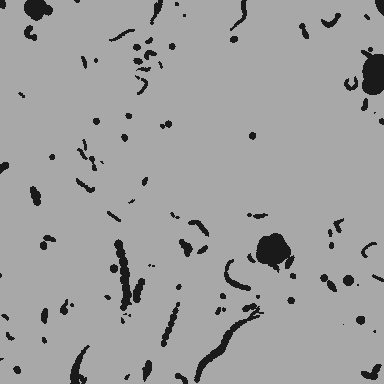
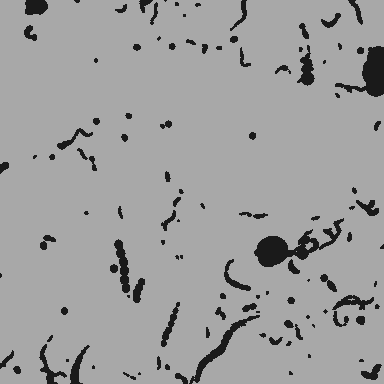
Caves: natural cavern floors, 1.6.4 forks and frequency
- Large caverns: no more flat cut-off floors. Floor and ceiling follow
  smooth two-scale noise, so floors roll into mounds and hollows; exits
  increased and allowed to fork.
- Spaghetti: every tunnel wider than 1 forks into two thinner tunnels, as
  in Release 1.6.4, and systems run at 1.6.4's frequency (6.7 per 100
  chunks). Zig-zag and ribbed trimmed to 5 per 100 chunks.
- Settings version 3 resets older cave type settings once.
- Density 5.14% of the underground (1.6.4-style on the same land 4.55%).
  Docs, README and checklist updated.

diff --git a/src/main/java/com/eternalreturn/worldgen/caves/types/LargeCave.java b/src/main/java/com/eternalreturn/worldgen/caves/types/LargeCave.java
@@ -6,11 +6,13 @@ import com.eternalreturn.worldgen.caves.CaveType;
 import com.eternalreturn.worldgen.caves.Tunnel;
 import net.minecraft.util.math.MathHelper;
 import net.minecraft.util.math.Vec3d;
+import net.minecraft.util.math.noise.SimplexNoiseSampler;
 import net.minecraft.util.math.random.Random;
 
 /**
- * Big irregular caverns: a flattened, stretched main chamber with lobes of different sizes and heights
- * around it (uneven walls, alcoves, a lumpy ceiling), a mostly flat floor, and tunnels leading out.
+ * Big irregular caverns: a stretched main chamber with lobes of different sizes and heights around it
+ * (uneven walls, alcoves), and tunnels leading out. Floor and ceiling follow smooth noise: the floor
+ * rises into mounds and sinks into hollows, the ceiling bulges a little, so nothing is flat.
  * The radius (of the main chamber) follows a bell curve with a long tail: typicalRadius times
  * e^(0.35 x a normal random), kept between minRadius and maxRadius. With the defaults (typical 25, 12 to
  * 80) about two in three caverns are 18 to 35 blocks in radius, about one in 45 passes 50 and one in
@@ -20,6 +22,10 @@ import net.minecraft.util.math.random.Random;
 public final class LargeCave implements CaveType {
 	/** Spread of the bell curve (log scale): 0.35 puts two caverns in three within about a third of the typical radius. */
 	private static final double SPREAD = 0.35;
+	/** How far the floor's depth swings with the noise: the bottom sits between 0.6 and 1.44 of the vertical radius below centre. */
+	private static final double FLOOR_SWING = 0.42;
+	/** Each piece's box reaches this much further than its vertical radius, to fit the deepest hollows. */
+	private static final double FLOOR_ROOM = 1.5;
 
 	@Override
 	public String id() {
@@ -49,8 +55,9 @@ public final class LargeCave implements CaveType {
 		double vertical = Math.min(radius * (0.45 + random.nextDouble() * 0.2), 8.0 + radius * 0.3);
 		double stretchX = 0.75 + random.nextDouble() * 0.5;
 		double stretchZ = 0.75 + random.nextDouble() * 0.5;
-		double centreY = builder.clampY(y, vertical);
-		builder.ellipsoid(x, centreY, z, radius * stretchX, vertical, radius * stretchZ, -0.55, true);
+		double centreY = builder.clampY(y, vertical * FLOOR_ROOM);
+		SimplexNoiseSampler noise = new SimplexNoiseSampler(random);
+		chamber(builder, noise, x, centreY, z, radius * stretchX, vertical, radius * stretchZ);
 
 		int lobes = 5 + random.nextInt(6) + (int) (radius / 10);
 		for (int i = 0; i < lobes; i++) {
@@ -69,19 +76,36 @@ public final class LargeCave implements CaveType {
 				lobeX = x + MathHelper.cos(angle) * distance * stretchX;
 				lobeZ = z + MathHelper.sin(angle) * distance * stretchZ;
 			}
-			double lobeY = builder.clampY(centreY + lobeYOffset, lobeVertical);
-			builder.ellipsoid(lobeX, lobeY, lobeZ, lobeRadius, lobeVertical, lobeRadius * lobeStretch, -0.5, true);
+			double lobeY = builder.clampY(centreY + lobeYOffset, lobeVertical * FLOOR_ROOM);
+			chamber(builder, noise, lobeX, lobeY, lobeZ, lobeRadius, lobeVertical, lobeRadius * lobeStretch);
 		}
 
-		int exits = 2 + random.nextInt(4) + (int) (radius / 25);
+		int exits = 3 + random.nextInt(4) + (int) (radius / 20);
 		for (int i = 0; i < exits; i++) {
 			float angle = random.nextFloat() * CaveBuilder.TAU;
 			double exitX = x + MathHelper.cos(angle) * radius * stretchX * 0.8;
 			double exitZ = z + MathHelper.sin(angle) * radius * stretchZ * 0.8;
 			double exitY = centreY - vertical * 0.3 + random.nextDouble() * vertical * 0.5;
 			Tunnel tunnel = new Tunnel(exitX, exitY, exitZ, angle + (random.nextFloat() - 0.5F) * 0.6F, (random.nextFloat() - 0.5F) * 0.4F);
-			SpaghettiCave.tunnel(builder, random, tunnel, 1.5, 0.5 + random.nextDouble() * 1.5, 40 + random.nextInt(50), false);
+			SpaghettiCave.tunnel(builder, random, tunnel, 1.5, 0.5 + random.nextDouble() * 1.5, 40 + random.nextInt(50), true);
 		}
 		return new Vec3d(x, centreY, z);
+	}
+
+	/**
+	 * One piece of the cavern: an ellipsoid whose lower half is squashed or stretched by smooth noise
+	 * (two scales, about 24 and 12 blocks across), so the floor undulates, and whose upper half bulges a
+	 * little. The same noise runs through every piece of a cavern, so neighbouring lobes join smoothly.
+	 */
+	private static void chamber(CaveBuilder builder, SimplexNoiseSampler noise, double x, double y, double z, double rx, double ry, double rz) {
+		builder.shape(x, y, z, rx, ry * FLOOR_ROOM, rz, true, true, (dx, dy, dz, blockY) -> {
+			double worldX = x + dx * rx;
+			double worldZ = z + dz * rz;
+			double n = 0.78 * noise.sample(worldX / 24.0, worldZ / 24.0) + 0.22 * noise.sample(worldX / 12.0 + 31.7, worldZ / 12.0 - 12.3);
+			// dy is scaled by the box (ry * FLOOR_ROOM); back to units of ry, then stretched by the noise.
+			double vertical = dy * FLOOR_ROOM;
+			vertical /= vertical < 0 ? 1.02 - FLOOR_SWING * n : 1.0 + 0.15 * n;
+			return dx * dx + vertical * vertical + dz * dz < 1.0;
+		});
 	}
 }

diff --git a/src/main/java/com/eternalreturn/worldgen/caves/types/SpaghettiCave.java b/src/main/java/com/eternalreturn/worldgen/caves/types/SpaghettiCave.java
@@ -19,10 +19,11 @@ import net.minecraft.util.math.random.Xoroshiro128PlusPlusRandom;
  * <li>a tunnel runs 85 to 112 blocks, swelling from minRadius at its ends to minRadius + width in the
  * middle; width is 0 to (maxRadius - minRadius), weighted toward the middle, and one tunnel in ten is
  * widened up to four times;</li>
- * <li>flat floors, a quarter of the steps skipped (rough walls), one tunnel in six keeping its slope.</li>
+ * <li>flat floors, a quarter of the steps skipped (rough walls), one tunnel in six keeping its slope;</li>
+ * <li>every tunnel wider than 1 (most of them) splits, somewhere in its middle half, into two thinner
+ * tunnels heading off left and right, and ends there: the forks that make 1.6.4's caves a maze.</li>
  * </ul>
- * One change: 1.6.4 split most tunnels into two thinner ones halfway; here one tunnel in five sends
- * off a thinner side branch and carries on. Weight counts cave systems (1.6.4 had about 6.7 per 100 chunks).
+ * Weight counts cave systems (1.6.4 had about 6.7 per 100 chunks).
  */
 public final class SpaghettiCave implements CaveType {
 	@Override
@@ -32,7 +33,7 @@ public final class SpaghettiCave implements CaveType {
 
 	@Override
 	public CaveTypeSettings defaults() {
-		return new CaveTypeSettings(5.0, -58, 85, 1.5, 4.5);
+		return new CaveTypeSettings(6.7, -58, 85, 1.5, 4.5);
 	}
 
 	@Override
@@ -97,7 +98,8 @@ public final class SpaghettiCave implements CaveType {
 	public static void tunnel(CaveBuilder builder, Random random, Tunnel tunnel, double endRadius, double width, int length, boolean mayBranch) {
 		boolean steep = random.nextInt(6) == 0;
 		int branchAt = random.nextInt(Math.max(1, length / 2)) + length / 4;
-		boolean branches = mayBranch && width > 1.0 && random.nextInt(5) == 0;
+		// Release 1.6.4: every tunnel wider than 1 forks.
+		boolean branches = mayBranch && width > 1.0;
 		long branchSeed = random.nextLong();
 		walk(builder, random, tunnel, endRadius, width, 0, length, steep, branches ? branchAt : -1, branchSeed);
 	}
@@ -113,12 +115,18 @@ public final class SpaghettiCave implements CaveType {
 				return;
 			}
 			if (i == branchAt) {
-				// A thinner side tunnel (1.6.4's branch width) leaves at a right angle with its own random numbers.
+				// The fork: two thinner tunnels (1.6.4's branch width, 0.5 to 1) leave at right angles, left
+				// and right, each with its own random numbers, and this tunnel ends.
 				Random branchRandom = new Xoroshiro128PlusPlusRandom(branchSeed);
-				float side = branchRandom.nextBoolean() ? 1.0F : -1.0F;
-				double branchWidth = branchRandom.nextFloat() * 0.5F + 0.5F;
-				walk(builder, branchRandom, tunnel.copy(tunnel.yaw + side * CaveBuilder.TAU / 4, tunnel.pitch / 3.0F), endRadius, branchWidth,
-						i, length, steep, -1, 0L);
+				long leftSeed = branchRandom.nextLong();
+				long rightSeed = branchRandom.nextLong();
+				for (int side = -1; side <= 1; side += 2) {
+					Random sideRandom = new Xoroshiro128PlusPlusRandom(side < 0 ? leftSeed : rightSeed);
+					double branchWidth = sideRandom.nextFloat() * 0.5F + 0.5F;
+					walk(builder, sideRandom, tunnel.copy(tunnel.yaw + side * CaveBuilder.TAU / 4, tunnel.pitch / 3.0F), endRadius, branchWidth,
+							i, length, steep, -1, 0L);
+				}
+				return;
 			}
 			// Release 1.6.4 skipped a quarter of its steps, which roughens the walls.
 			if (random.nextInt(4) == 0) {

diff --git a/src/main/java/com/eternalreturn/worldgen/caves/CaveBuilder.java b/src/main/java/com/eternalreturn/worldgen/caves/CaveBuilder.java
@@ -65,28 +65,13 @@ public final class CaveBuilder {
 
 	/** Any shape (see ChunkCarver.carve). Ignored when out of reach. */
 	public void shape(double x, double y, double z, double rx, double ry, double rz, boolean withinCircle, ChunkCarver.Shape shape) {
-		if (this.inReach(x, z, Math.max(rx, rz)) && this.target.touches(x - rx - 1, x + rx + 1, z - rz - 1, z + rz + 1)) {
-			this.target.carve(x, y, z, rx, ry, rz, withinCircle, shape);
-		}
+		this.shape(x, y, z, rx, ry, rz, withinCircle, false, shape);
 	}
 
-	/**
-	 * A winding tunnel in the style of Release 1.6.4's caves, walked one block per step for length
-	 * steps: an ellipsoid of horizontal radius radius(step) and vertical radius radius * vScale at
-	 * every step, with a flat floor (Release 1.6.4 cut its tunnels at 0.7 of the radius below centre).
-	 * Stops early once out of reach.
-	 */
-	public void winding(Random random, Tunnel tunnel, int length, java.util.function.IntToDoubleFunction radius, double vScale,
-			float pitchKeep, float pitchNoise, float yawNoise) {
-		for (int i = 0; i < length; i++) {
-			double r = radius.applyAsDouble(i);
-			tunnel.step(1.0);
-			tunnel.wander(random, pitchKeep, 0.1F, pitchNoise, yawNoise);
-			tunnel.keepWithin(this, r * vScale);
-			if (!this.inReach(tunnel.x, tunnel.z, r + 1)) {
-				return;
-			}
-			this.ellipsoid(tunnel.x, tunnel.y, tunnel.z, r, r * vScale, r, -0.7);
+	/** Any shape, with the per-block water rule when perBlockFluids is set (for very big shapes). */
+	public void shape(double x, double y, double z, double rx, double ry, double rz, boolean withinCircle, boolean perBlockFluids, ChunkCarver.Shape shape) {
+		if (this.inReach(x, z, Math.max(rx, rz)) && this.target.touches(x - rx - 1, x + rx + 1, z - rz - 1, z + rz + 1)) {
+			this.target.carve(x, y, z, rx, ry, rz, withinCircle, perBlockFluids, shape);
 		}
 	}
 

diff --git a/src/main/java/com/eternalreturn/worldgen/caves/CaveTypes.java b/src/main/java/com/eternalreturn/worldgen/caves/CaveTypes.java
@@ -18,8 +18,9 @@ public final class CaveTypes {
 	/**
 	 * Bump when a type's settings change meaning, so config files written for the old defaults are
 	 * reset once (see CaveTweaks.typesVersion). 2: 1.6.4 spaghetti systems, bell-curve caverns.
+	 * 3: spaghetti at 1.6.4's frequency with its forks.
 	 */
-	public static final int SETTINGS_VERSION = 2;
+	public static final int SETTINGS_VERSION = 3;
 	public static final List<CaveType> ALL = List.of(
 			new SpaghettiCave(),
 			new RavineCave(),

diff --git a/src/main/java/com/eternalreturn/worldgen/caves/types/RibbedCave.java b/src/main/java/com/eternalreturn/worldgen/caves/types/RibbedCave.java
@@ -20,7 +20,7 @@ public final class RibbedCave implements CaveType {
 
 	@Override
 	public CaveTypeSettings defaults() {
-		return new CaveTypeSettings(7.0, -50, 50, 2.0, 3.5);
+		return new CaveTypeSettings(5.0, -50, 50, 2.0, 3.5);
 	}
 
 	@Override

diff --git a/src/main/java/com/eternalreturn/worldgen/caves/types/ZigZagCave.java b/src/main/java/com/eternalreturn/worldgen/caves/types/ZigZagCave.java
@@ -21,7 +21,7 @@ public final class ZigZagCave implements CaveType {
 
 	@Override
 	public CaveTypeSettings defaults() {
-		return new CaveTypeSettings(7.0, -50, 50, 1.5, 2.5);
+		return new CaveTypeSettings(5.0, -50, 50, 1.5, 2.5);
 	}
 
 	@Override

diff --git a/docs/worldgen.md b/docs/worldgen.md
@@ -195,16 +195,16 @@ Weight is caves starting per 100 chunks; spaghetti counts cave systems. Start y 
 
 | Type | Looks like | Weight | Start y | Radius |
 |---|---|---|---|---|
-| `spaghetti` | Release 1.6.4's caves, with its sizes and maths. A system is one chunk holding a cluster of starts (1.6.4's rand(rand(rand(40) + 1) + 1), at least one), each at its own spot and depth, deeper ones more likely. One start in four opens a round, flattened room (radius 2.5 to 8.5, half as tall) with one to four tunnels out of it. A tunnel runs 85 to 112 blocks, 1.5 blocks in radius at its ends and swelling to 1.5 to 4.5 in the middle; one in ten is widened up to four times. Flat floors, rough walls, one tunnel in six keeps its slope for longer. The one change from 1.6.4: one tunnel in five sends off a thinner side branch and carries on (1.6.4 split most tunnels in two). | 5 | -58 to 85 | 1.5 to 4.5 (radius at the ends, and at the widest for an ordinary tunnel) |
+| `spaghetti` | Release 1.6.4's caves, with its sizes and maths. A system is one chunk holding a cluster of starts (1.6.4's rand(rand(rand(40) + 1) + 1), at least one), each at its own spot and depth, deeper ones more likely. One start in four opens a round, flattened room (radius 2.5 to 8.5, half as tall) with one to four tunnels out of it. A tunnel runs 85 to 112 blocks, 1.5 blocks in radius at its ends and swelling to 1.5 to 4.5 in the middle; one in ten is widened up to four times. Flat floors, rough walls, one tunnel in six keeps its slope for longer. Every tunnel wider than 1 (most of them) forks somewhere in its middle half into two thinner tunnels heading left and right, as in 1.6.4: that, with many starts per system, is what makes the caves a maze. | 6.7 | -58 to 85 | 1.5 to 4.5 (radius at the ends, and at the widest for an ordinary tunnel) |
 | `ravine` | Release 1.6.4's ravines: long, narrow canyons three to four times as tall as they are wide, with vertical, jagged walls (the width changes every one to three blocks of height). One in four is a large ravine, wider, taller and grown both ways from its start. Shallow ones open to the surface. | 2 | -30 to 45 | 2.5 to 4.5 (half-width; large ×1.5) |
-| `large` | A big chamber: a flattened, stretched main body with lobes of different sizes and heights around it, so the walls are uneven and the ceiling lumpy, a mostly flat floor, and tunnels leading out. The radius follows a bell curve with a long tail (`typicalRadius` × e^(0.35 × a normal random), kept within the range): about a quarter are under 20, most are 20 to 35, one in seven is 35 to 50, about one in 45 passes 50 and one in 250 passes 65. Big caverns get more lobes and exits and grow less in height than in width: one of radius 76 came out 196 blocks across and 47 tall. The deepest have lava pools on the floor. | 1 | -48 to 15 | 12 to 80, typical 25 (main chamber) |
+| `large` | A big chamber: a stretched main body with lobes of different sizes and heights around it, so the walls are uneven, and three or more forking tunnels leading out. Floor and ceiling follow smooth noise (shapes about 24 and 12 blocks across): the floor rises into mounds and sinks into hollows, the ceiling bulges a little, so nothing is flat. The radius follows a bell curve with a long tail (`typicalRadius` × e^(0.35 × a normal random), kept within the range): about a quarter are under 20, most are 20 to 35, one in seven is 35 to 50, about one in 45 passes 50 and one in 250 passes 65. Big caverns get more lobes and exits and grow less in height than in width: one of radius 76 came out about 190 blocks across and 55 tall. The deepest have lava pools in their hollows. | 1 | -48 to 15 | 12 to 80, typical 25 (main chamber) |
 | `vertical` | Steep connections between levels. Three in five are shafts dropping 20 to 60 blocks with a slight drift and a bulging wall; the rest are steep tunnels at 50 to 75 degrees. Short side tunnels leave the top and bottom so they join the caves around them. | 8 | -20 to 60 (the top) | 2.5 to 4.5 |
-| `zigzag` | Constant-width tunnels made of equal straight segments (6 to 14 blocks) turning the same sharp angle (70 to 110 degrees) left and right in turn, each segment with its own gentle slope. | 7 | -50 to 50 | 1.5 to 2.5 |
-| `ribbed` | Gently curving tunnels whose width pulses 35 to 55 percent above and below the base every 5 to 9 blocks: wide bulges between rings of rock. | 7 | -50 to 50 | 2.0 to 3.5 (base) |
+| `zigzag` | Constant-width tunnels made of equal straight segments (6 to 14 blocks) turning the same sharp angle (70 to 110 degrees) left and right in turn, each segment with its own gentle slope. | 5 | -50 to 50 | 1.5 to 2.5 |
+| `ribbed` | Gently curving tunnels whose width pulses 35 to 55 percent above and below the base every 5 to 9 blocks: wide bulges between rings of rock. | 5 | -50 to 50 | 2.0 to 3.5 (base) |
 
 The settings that matter most for how much cave there is: `worldgen.caves.density` (multiplies every weight), the spaghetti weight (most of the cave volume) and its radius range, then the large-cave weight and `typicalRadius` (rare but big).
 
-The radius ranges and the meaning of the spaghetti weight changed after the first playtest (thicker 1.6.4 tunnels, bell-curve caverns, thicker shafts). Config files written before that are reset to the new type defaults once, through `worldgen.caves.typesVersion`.
+The type settings changed after playtests (thicker 1.6.4 tunnels, bell-curve caverns, thicker shafts, then 1.6.4's forks and frequency). Config files written for older defaults are reset to the new type defaults once, through `worldgen.caves.typesVersion`.
 
 ### Density
 
@@ -212,18 +212,18 @@ Share of the underground (everything below the ground surface) that is open, ove
 
 | Depth | New caves | Old caves, same terrain | Release 1.6.4 world |
 |---|---|---|---|
-| y -64 to -49 | 3.7% | 3.4% | 3.2% |
-| y -48 to -33 | 5.2% | 4.8% | 5.1% |
-| y -32 to -17 | 6.7% | 5.8% | 7.4% |
-| y -16 to -1 | 6.2% | 5.6% | 6.2% |
-| y 0 to 15 | 7.6% | 6.8% | 5.4% |
-| y 16 to 31 | 5.5% | 5.0% | 4.1% |
-| y 32 to 47 | 3.9% | 3.7% | 3.4% |
-| y 48 to 63 | 1.8% | 2.9% | 1.1% |
-| y 64 to 79 | 1.4% | 3.1% | 0.2% |
-| **All** | **4.65%** | **4.55%** | **4.53%** |
+| y -64 to -49 | 4.0% | 3.4% | 3.2% |
+| y -48 to -33 | 6.1% | 4.8% | 5.1% |
+| y -32 to -17 | 7.3% | 5.8% | 7.4% |
+| y -16 to -1 | 6.9% | 5.6% | 6.2% |
+| y 0 to 15 | 7.9% | 6.8% | 5.4% |
+| y 16 to 31 | 6.5% | 5.0% | 4.1% |
+| y 32 to 47 | 4.4% | 3.7% | 3.4% |
+| y 48 to 63 | 2.2% | 2.9% | 1.1% |
+| y 64 to 79 | 1.1% | 3.1% | 0.2% |
+| **All** | **5.14%** | **4.55%** | **4.53%** |
 
-"Old caves" are Moderner Beta's 1.6.4-style caves on the identical terrain (the twin dimension with the engine off); the Release 1.6.4 world is Moderner Beta's own preset (its terrain is lower, hence the empty top rows). The new caves carry about the same total: a little more below y 32 (1.6.4's starts favour low ground), a little less under hills and mountains.
+"Old caves" are Moderner Beta's 1.6.4-style caves on the identical terrain (the twin dimension with the engine off); the Release 1.6.4 world is Moderner Beta's own preset (its terrain is lower, hence the empty top rows). The new caves carry a little more in total (about a ninth more), mostly from 1.6.4's forking spaghetti at full frequency; they are a little emptier under hills and mountains.
 
 ### Timing
 
@@ -231,11 +231,11 @@ Chunk generation up to the carving step, one chunk at a time, same squares with 
 
 | | ms per chunk |
 |---|---|
-| No caves | 64.0 |
-| New caves | 69.3 |
-| Old caves (Moderner Beta's) | 70.3 |
+| No caves | 63.8 |
+| New caves | 70.4 |
+| Old caves (Moderner Beta's) | 69.0 |
 
-Time spent inside the cave carver: 5.9 ms per chunk (each chunk simulates the caves of the 289 chunks around it); two other runs gave 5.7 ms. Totals move by a few ms between runs with the machine's load. The new caves cost about the same as the old ones.
+Time spent inside the cave carver: 6.6 ms per chunk (each chunk simulates the caves of the 289 chunks around it); earlier runs gave 5.7 to 7.2 ms. Totals move by a few ms between runs with the machine's load. The new caves cost about the same as the old ones.
 
 ### Dev options
 

diff --git a/README.md b/README.md
@@ -107,11 +107,11 @@ The plan, status, terrain settings and maps are in [docs/worldgen.md](docs/world
 
 Pick **World Type: Eternal Return** on the create-world screen (it is also in Moderner Beta's own preset list, in its own category). Oceans and continents are laid out like Release 1.6.4, but the land rolls and climbs like Beta 1.7.3 almost everywhere: mostly rolling and hilly ground around y 65-90, hills to about y 115, mountains up to about y 180, with Beta-style cliffs and the odd overhang. Swamps stay flat and marshy, as in 1.6.4. Sea level is 63, bedrock is at -64, and everything below y=0 is ordinary stone with the usual ores: no deepslate layer and no lush caves, dripstone caves or deep dark. Biomes are Release 1.6.4's (with its hills and shores) plus birch forest, savanna, badlands and dark forest. There are no trial chambers. The Nether and the End are vanilla.
 
-**Caves.** Six types, about as much cave in all as Release 1.6.4 had (4.5% of the underground open):
+**Caves.** Six types, a little more cave in all than Release 1.6.4 (5.1% of the underground open, against 4.5%):
 
-- spaghetti: Release 1.6.4's caves, same sizes: clusters of winding tunnels that swell in the middle, with round rooms;
+- spaghetti: Release 1.6.4's caves, same sizes and forks: clusters of winding tunnels that swell in the middle and split in two, with round rooms;
 - ravines: tall, narrow canyons with jagged walls, some large, some open to the sky;
-- large caverns: rare big chambers with lumpy walls and tunnels leading out, most 20 to 35 blocks in radius and a few far bigger (up to 80; one of radius 76 is nearly 200 blocks across);
+- large caverns: rare big chambers with uneven walls, rolling floors and tunnels leading out, most 20 to 35 blocks in radius and a few far bigger (up to 80; one of radius 76 is about 190 blocks across);
 - vertical shafts (2.5 to 4.5 in radius) and steep tunnels joining one level to the next;
 - zig-zag tunnels of straight segments with sharp turns;
 - ribbed tunnels that bulge and pinch every few blocks.
@@ -293,10 +293,10 @@ World type (needs Moderner Beta): create a creative world with World Type "Etern
 
 Caves (same world; a new world, since chunks generated before this update keep their old caves). `/gamemode spectator`, `/effect give @s night_vision infinite`, then `/tp @s X Y Z` puts you inside each cave, all within about 100 blocks of each other:
 
-33. `-1283 -11 -1127`: spaghetti, 1.6.4-style tunnels that swell in the middle, with flat floors; follow them up and down.
+33. `-1283 -11 -1127`: spaghetti, 1.6.4-style tunnels that swell in the middle and fork; follow them up and down.
 34. `-1286 15 -1140`: a ravine, a narrow, very tall canyon with stepped, jagged walls.
-35. `-1200 -23 -1094`: a large cavern with uneven walls, a lumpy ceiling and tunnels leading off. For a giant one, `/tp @s 356 -34 4290`: about 196 blocks across and 47 tall, with lava pools on the floor (far from the others).
+35. `-1200 -23 -1094`: a large cavern with uneven walls, a rolling floor and tunnels leading off. For a giant one, `/tp @s 356 -17 4290`: about 190 blocks across and 55 tall (far from the others).
 36. `-1275 51 -1129`: the top of a vertical shaft; look down, then follow it to the tunnels at the bottom.
-37. `-1350 11 -1152`: a zig-zag tunnel: straight runs with sharp alternating turns.
+37. `-1338 37 -1196`: a zig-zag tunnel: straight runs with sharp alternating turns.
 38. `-1304 -3 -1146`: a ribbed tunnel that bulges and pinches every few blocks.
 39. Anywhere: no water pours into caves from oceans or rivers, caves at y -56 and below hold lava, and there are no trial chambers (`/locate structure minecraft:trial_chambers` finds none).
